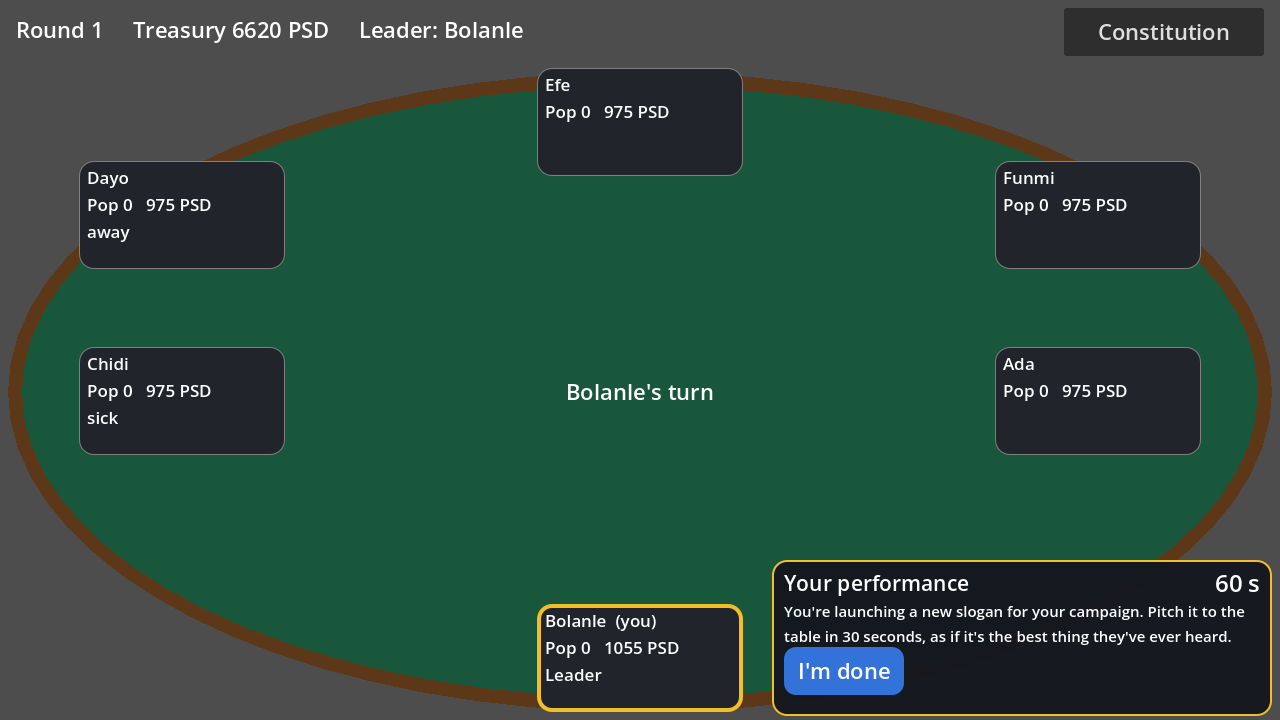
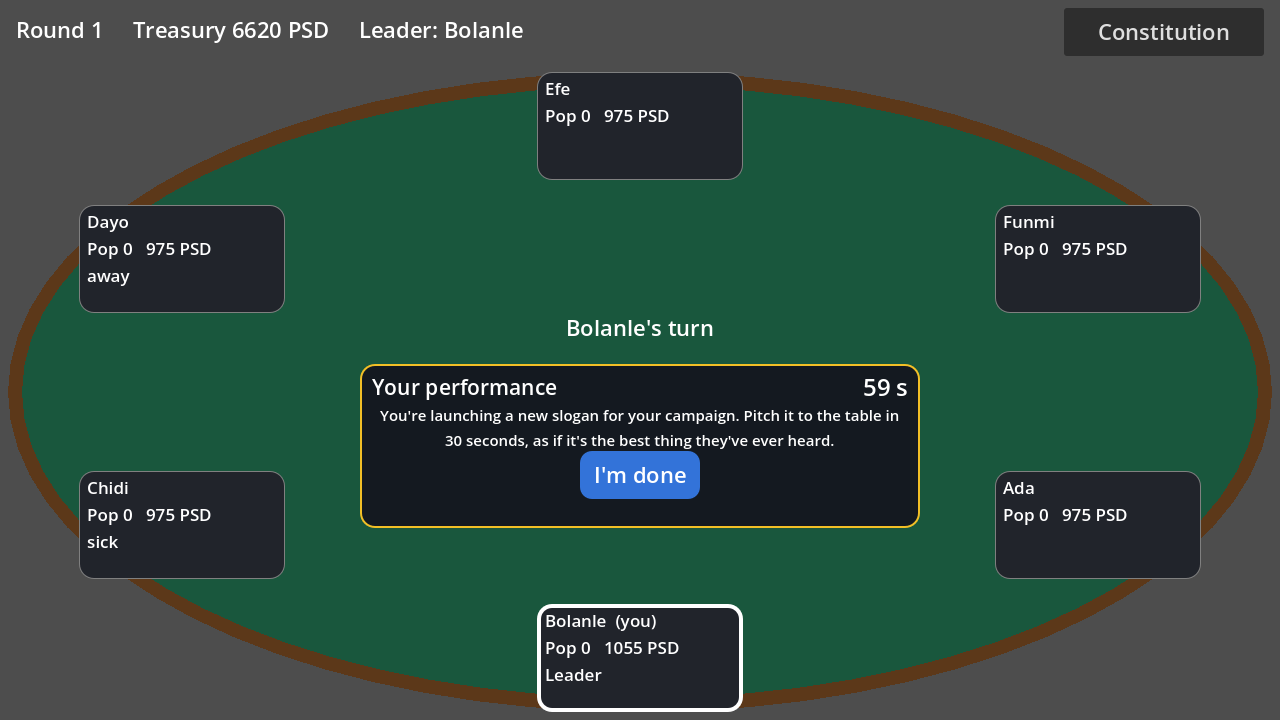
Client: card and vote buttons centred on the table; yellow outline on whoever is voted on
Claude-Session: https://claude.ai/code/session_01VdDJDkipQ3h2oSrC61MJyQ

diff --git a/docs/design_decisions.md b/docs/design_decisions.md
@@ -742,10 +742,11 @@ Checks: `tests/test_client_lobby.gd` (model, screen) and `tools/smoke_server.sh`
 
 | Question | Decision | Status |
 |---|---|---|
-| Where the card and buttons go | In a **dock in the bottom-right corner, beside your own badge** (your pick, though you were unsure: it is one rectangle in `table_layout.gd`, so it is cheap to move). The bottom-left dock is kept free for what is yours alone (your cards, will, actions: items 15 and 16). No one else's badge is ever in either dock (tested for 3 to 10 players). The other players sit on an oval that stops above the docks; you sit at the bottom middle between them. | **Built** |
+| Where the card and buttons go (centred) | **In the middle of the table** (your final say, after trying beside your badge): the headline sits just above, the card and buttons below it, and everyone, you included, sits on the oval round it. It is one rectangle in `table_layout.gd`. Nobody's badge is ever in it (tested for 3 to 10 players). Your own cards, will and actions will come in a drawer, not on the table (items 15 and 16). | **Built** |
 | What the dock shows | Whatever needs you now: your performance card with a countdown and "I'm done"; the Good/Bad vote (green and red) with how many have voted; the result (votes, popularity change, the Settlement or Scandal card drawn) and "End my turn" with its 15-second clock; a debate (pick a rival and type a topic, speak and say "enough", vote for the winner); any question a card asks (option, role, player, several players, number). Others see who is performing or choosing, with the same countdown. | **Built** |
 | Who decides | The buttons carry the exact command; the server checks every one. The phone has no rules in it. | **Built** |
 | Countdowns | The view carries the game clock and the deadline; the phone counts on from the moment the view arrived. | **Built** |
 | Not yet in the dock | Elections (exam, ballot) and amendments (item 14), polls and offers (sell a card, a union invitation, a dose, a will, an Agent hire) and Settlement/Scandal reveals as their own moment (the result line carries the text for now), Command Performance. | Next |
 
 Looked at (docs/screenshots/): one bug found by looking, not by the tests: with a three-line card the Good/Bad buttons were cut off; fixed by moving short notes into the title row. Checks: `tests/test_client_turn.gd` presses the real buttons against the real server core.
+| Who is being voted on | A thick **yellow outline** round that player's badge while the table votes: the performer during the Good/Bad vote (both debaters in a debate), every candidate in an election ballot. The player whose turn it is, outside a vote, has a thin white outline; you have blue. | **Built** |
